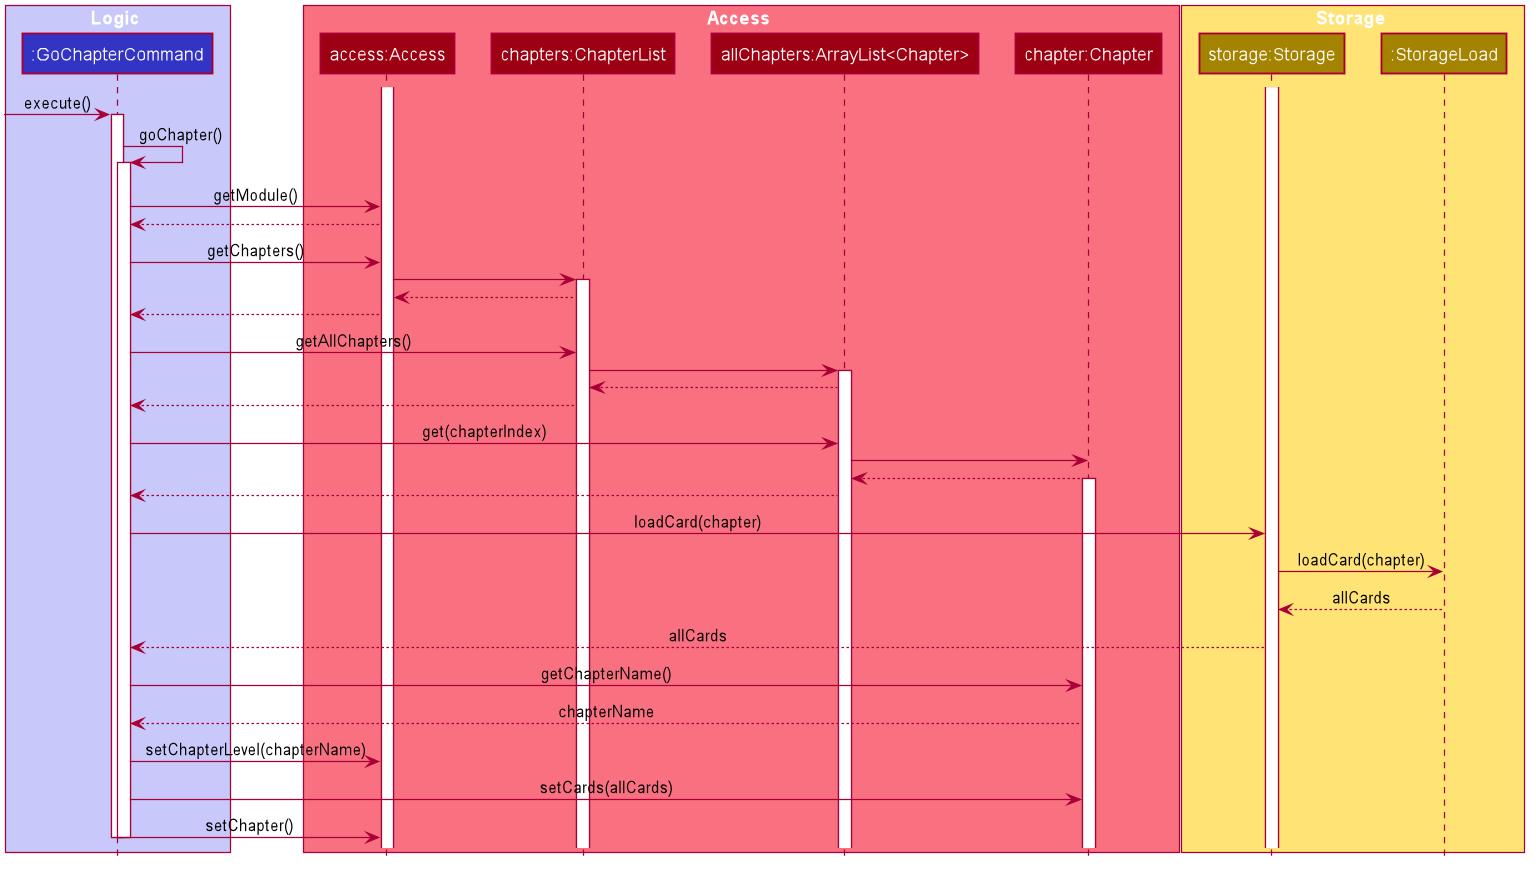
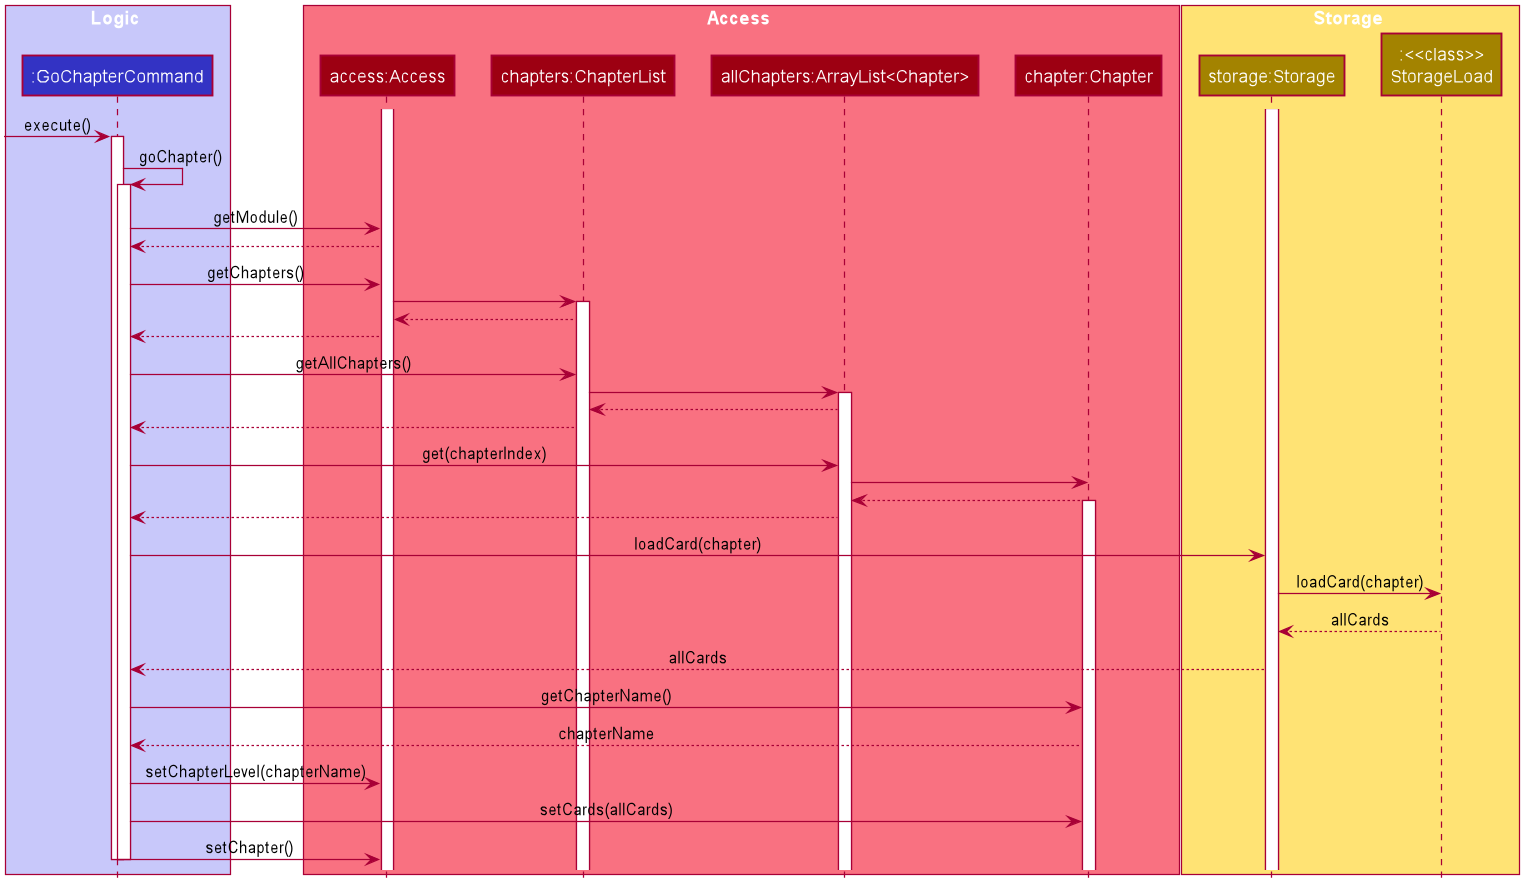
Amended some diagram errors

Changed region(s): [[0.0, 0.0, 0.9824, 0.9897], [0.4298, 0.7113, 0.4912, 0.7423], [0.921, 0.9588, 0.9517, 0.9897]]

diff --git a/docs/DeveloperGuide.md b/docs/DeveloperGuide.md
@@ -651,7 +651,7 @@ Step 4: `Access#setModuleLevel()` verifies that the user is not on the Admin lev
 The following sequence Diagrams illustrates how the Return to Admin Level Feature is executed:
 
 <p align="center">
-  <img src="DG_Images/backAdmin.png" width="600" alt="Back Admin Sequence Diagram"/>
+  <img src="DG_Images/backAdmin.png" width="450" alt="Back Admin Sequence Diagram"/>
   <br/>Figure <>. Sequence diagram of Return to Admin Level Feature
 </p>
 
@@ -1147,7 +1147,7 @@ Items are added into the `ArrayList<String>` Exclusion List using two pairs of c
     * `Storage#appendModuleToExclusionFile()` - appends every `Chapter` of the target `Module` not already in the Exclusion File to it if the target `Module` exists
 
 <p align="center">
-  <img src="DG_Images/excludeClass.png" height="600" width="1023" alt="Class Diagram of Exclude"/>
+  <img src="DG_Images/excludeClass.png" width="1000" alt="Class Diagram of Exclude"/>
   <br/>Figure <>. Class diagram of Exclude
 </p>
 
@@ -1206,7 +1206,7 @@ Items are removed from the `ArrayList<String>` Exclusion List using two pairs of
     * `Storage#removeModuleFromExclusionFile()` - removes every `Chapter` of the target `Module` that is in the Exclusion File
 
 <p align="center">
-  <img src="DG_Images/includeClass.png" height="600" width="1023" alt="Class Diagram of Include"/>
+  <img src="DG_Images/includeClass.png" width="1000" alt="Class Diagram of Include"/>
   <br/>Figure <>. Class diagram of Include
 </p>
 
